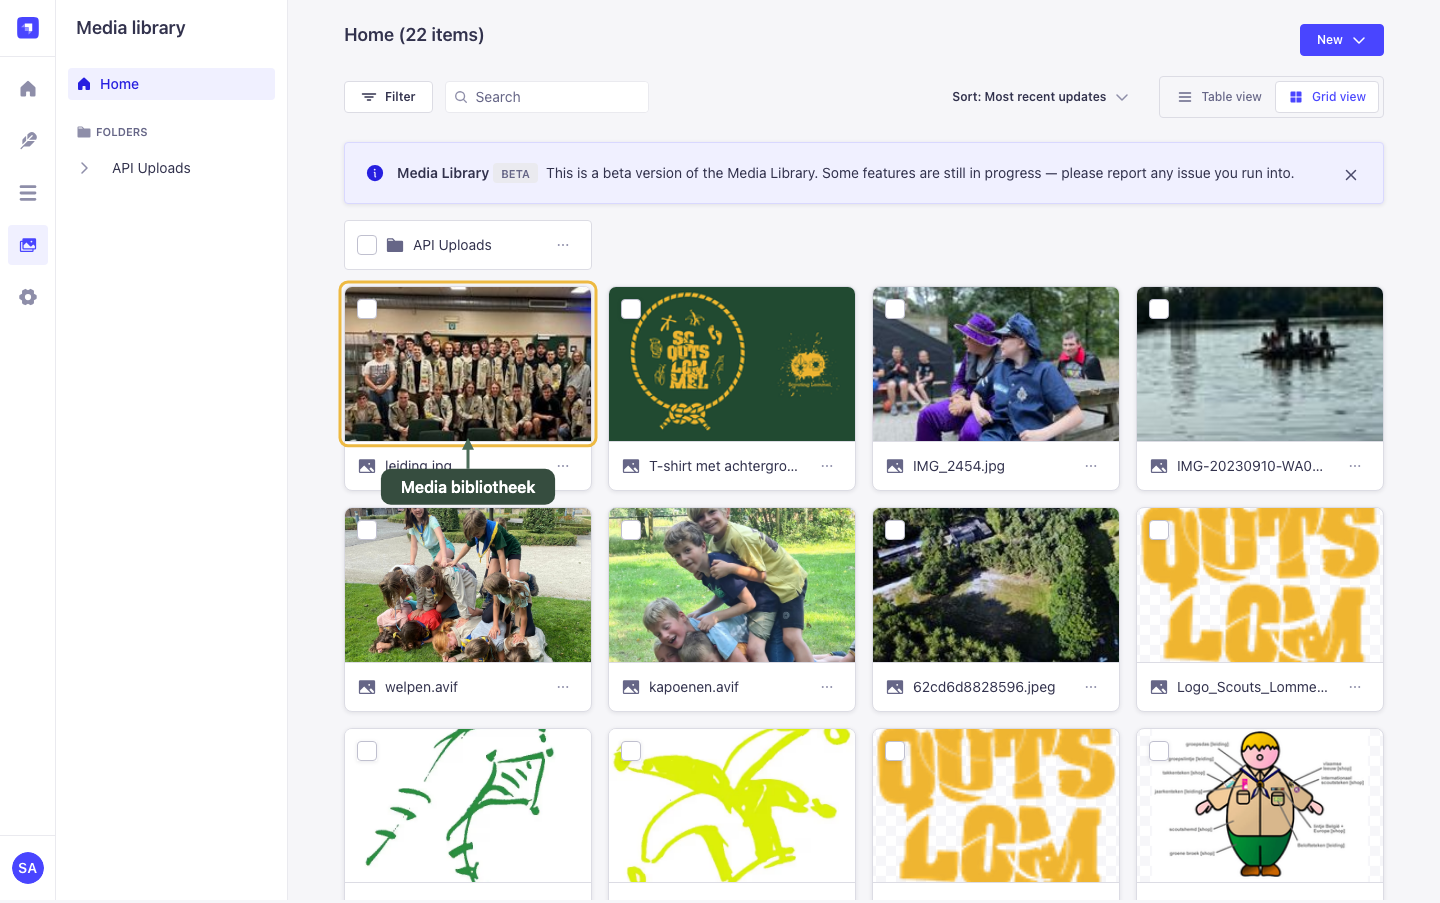
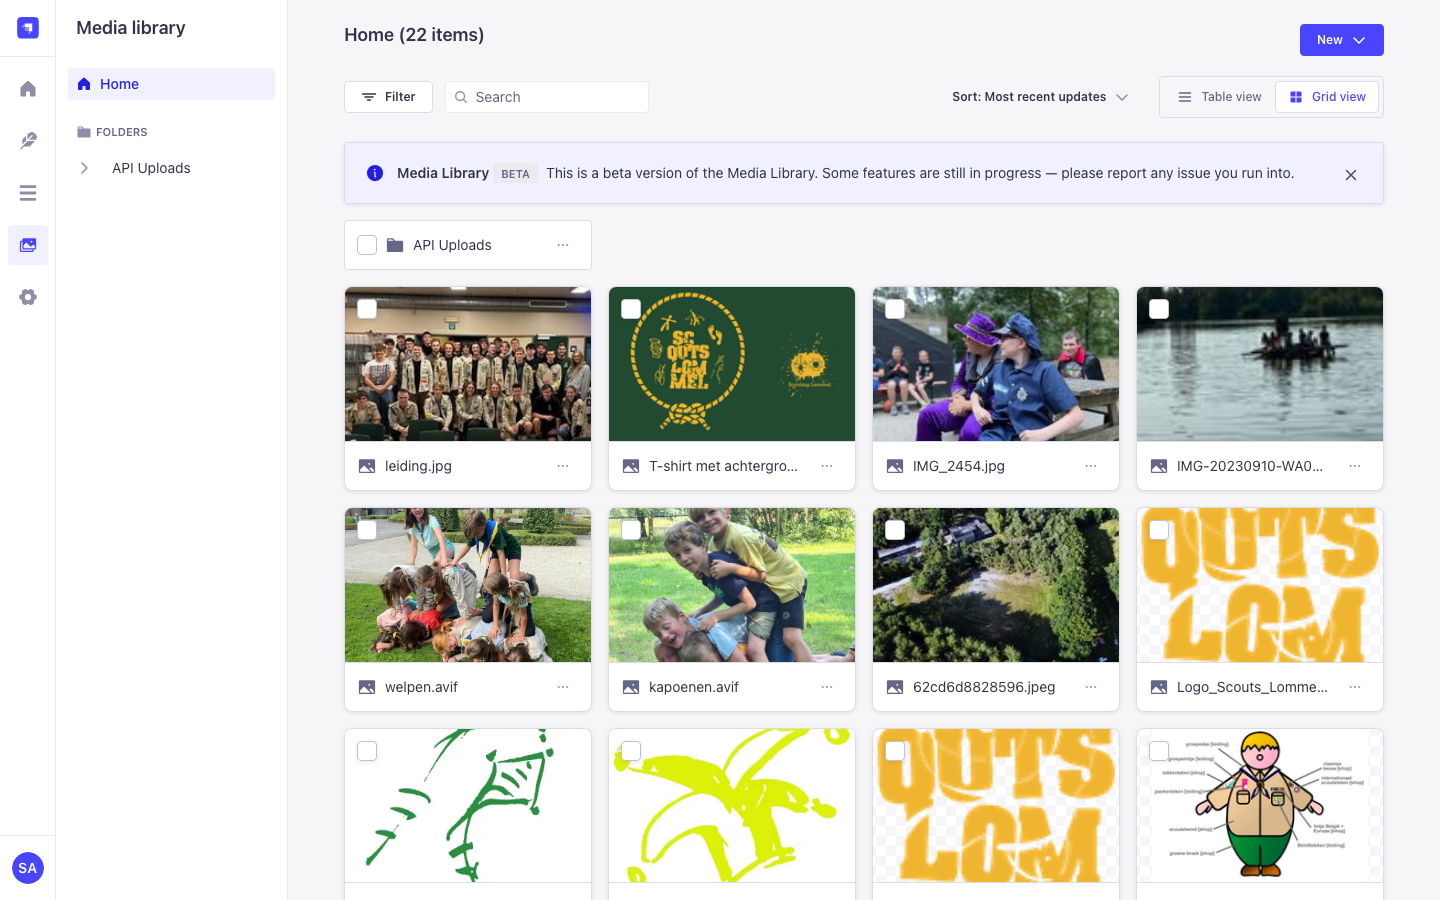
chore: remove annotation from media library screenshot

diff --git a/scripts/capture-manual.ts b/scripts/capture-manual.ts
@@ -674,9 +674,6 @@ const ADMIN_DEFINITIONS: ScreenshotDefinition[] = [
 		url: `${adminBase()}/admin/plugins/upload`,
 		waitSelector: 'main img',
 		waitFallbacks: ['main'],
-		highlight: 'main img',
-		label: 'Media bibliotheek',
-		callout: 'bottom',
 	},
 	{
 		id: 'admin-settings',
